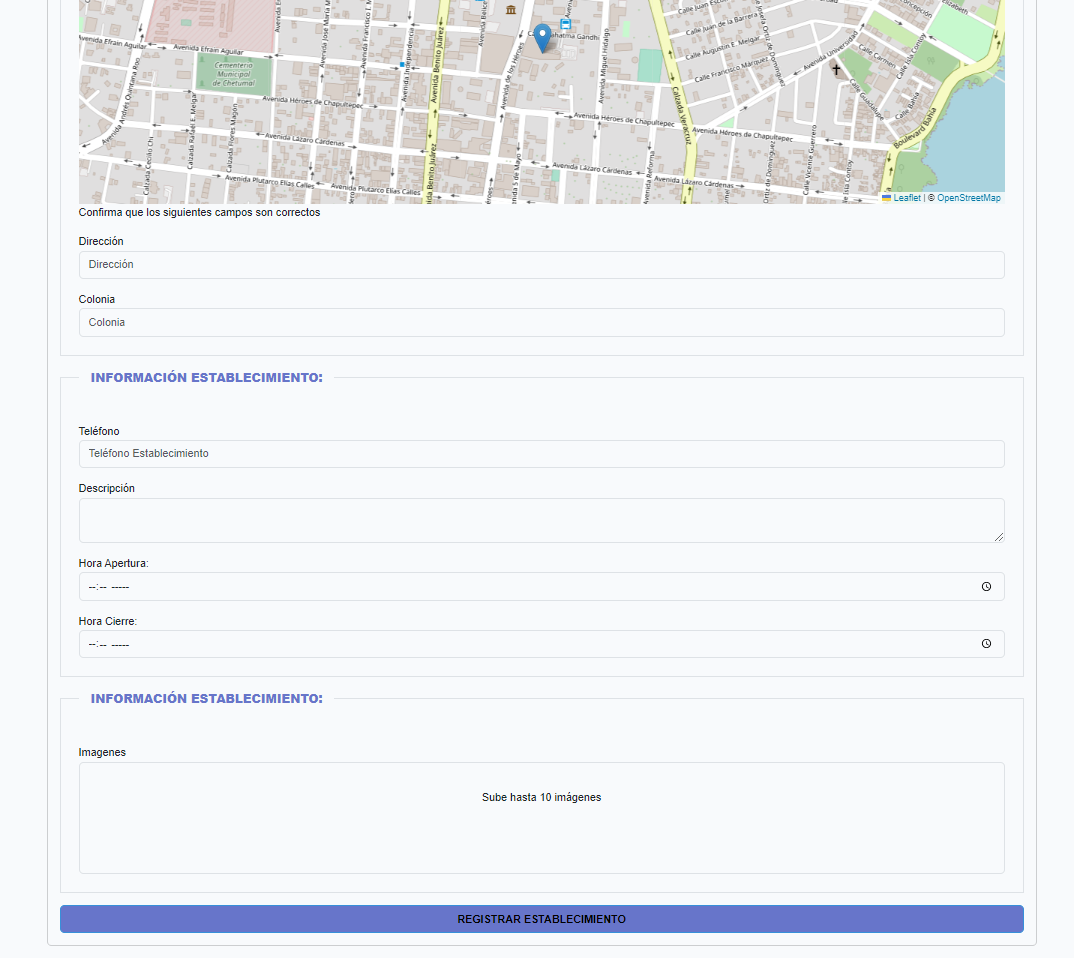
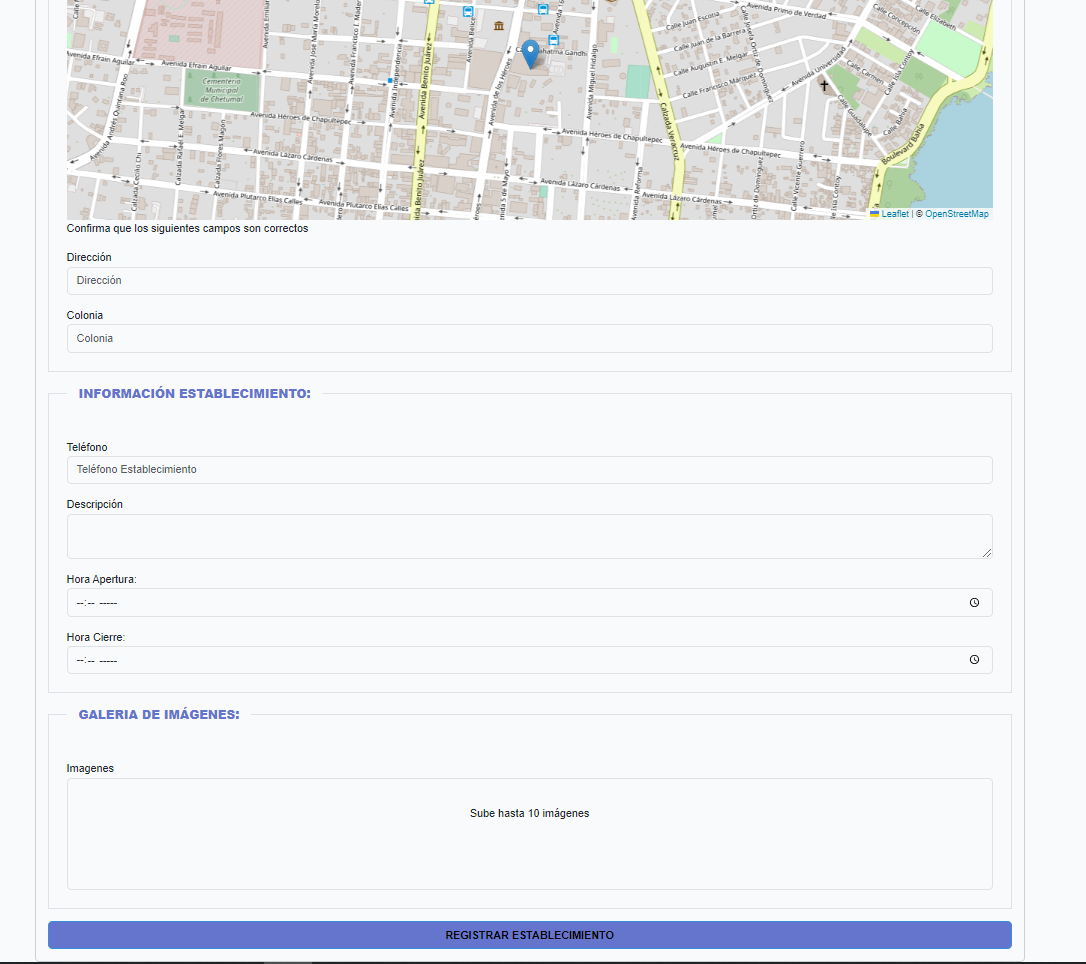
se agrega la edicion y actualizacion de establecimientos

diff --git a/resources/js/dropzone.js b/resources/js/dropzone.js
@@ -18,6 +18,37 @@ document.addEventListener('DOMContentLoaded', () => {
             headers: {
                 'X-CSRF-TOKEN': document.querySelector('meta[name="csrf-token"]').content
             },
+            init: function () {
+                //se llama al inicio de la carga de la página para verificar si existe imagenes para el elemento dropzone (usado en forms vies y edit)
+                const galeria = document.querySelectorAll('.galeria'); //inputs hidden con los nombres de las imagenes obtenidos desde el controller
+                //console.log(galeria);
+
+                //obtenenmos las imagenes
+                if(galeria.length > 0){
+                    galeria.forEach(imagen =>{
+                        //console.log(imagen.value);
+                        const imagenPublicada = {};
+                        imagenPublicada.size = 1; //si no se guarda el tamaño de la imagen se tiene que poner un size por defecto.
+                        imagenPublicada.name = imagen.value;
+                        //se agrega el nombre del "servidor" para que dropzone se comunique internamente
+                        imagenPublicada.nombreServidor = imagen.value;
+
+                        //agregamos la imagen a dropzone
+                        this.options.addedfile.call(this, imagenPublicada);
+                        this.options.thumbnail.call(this, imagenPublicada, `/storage/${imagenPublicada.name}`);
+                        //si el thumbnail se ve con mucho zoom se tiene que actualizar el scss resources/sass/establecimientos.scss con las clases 
+                        // dropzone .dz-preview .dz-image img {
+                        //    display: block;
+                        //    object-fit: scale-down;
+                        //    width: 200px;
+                        // }
+
+                        //mostramos los iconos de que las imagenes se subieron correctamente, para evitar se vea la barra de carga en el thumbnail
+                        imagenPublicada.previewElement.classList.add('dz-success');
+                        imagenPublicada.previewElement.classList.add('dz-complete');
+                    })
+                }
+            },
             success: function (file, respuesta) {
                 //console.log(file);
                 console.log(respuesta);
@@ -25,16 +56,16 @@ document.addEventListener('DOMContentLoaded', () => {
             },
             sending: function (file, xhr, formData) {
                 formData.append('uuid', document.querySelector('#uuid').value)
-               // console.log('enviando');
+                // console.log('enviando');
             },
-            removedfile: function(file, respuesta){
+            removedfile: function (file, respuesta) {
                 console.log(file);
 
                 const params = {
                     imagen: file.nombreServidor
                 }
                 axios.post('/imagenes/destroy', params)
-                    .then( respuesta => {
+                    .then(respuesta => {
                         console.log(respuesta)
 
                         //Eliminar del DOM

diff --git a/resources/js/components/MapaUbicacion.vue b/resources/js/components/MapaUbicacion.vue
@@ -3,7 +3,7 @@
         <l-map ref="mapa" v-model:zoom="zoom" :center="center" :options="mapOptions">
             <l-tile-layer :url="url" :attribution="attribution" />
 
-            <l-marker :lat-lng="{ lat, lng }">
+            <l-marker :lat-lng= "{ lat, lng }">
                 <l-tooltip>
                     <div>{{ establecimiento.nombre }}</div>
                 </l-tooltip>
@@ -43,6 +43,7 @@ export default {
     },
     created() {
         setTimeout(() => {
+            console.log(store.getters.obtenerEstablecimiento.lat);
             this.lat = store.getters.obtenerEstablecimiento.lat;
             this.lng = store.getters.obtenerEstablecimiento.lng;
             this.center = latLng(this.lat, this.lng);

diff --git a/resources/sass/establecimientos.scss b/resources/sass/establecimientos.scss
@@ -65,3 +65,13 @@ legend {
     color: $indigo;
 }
 
+.bg-primary{
+    background-color: $indigo!important;
+}
+
+.dropzone .dz-preview .dz-image img {
+    display: block;
+    object-fit: scale-down;
+    width: 200px;
+}
+

diff --git a/resources/js/components/PaginaInicio.vue b/resources/js/components/PaginaInicio.vue
@@ -18,10 +18,7 @@
 
 <script>
 
-
 export default {
-
-  
     
 }
 

diff --git a/resources/views/establecimientos/edit.blade.php b/resources/views/establecimientos/edit.blade.php
@@ -15,19 +15,20 @@
 @section('content')
     <div class="container">
         <h1 class="text-center mt-4">
-            Registrar Establecimiento
+            Editar Establecimiento
         </h1>
 
         <div class="row mt-5 justify-content-center">
-            <form action="{{ route('establecimiento.store') }}" method="POST" class="col-md-9 col-xs-12 card card-body" enctype="multipart/form-data">
+            <form action="{{ route('establecimiento.update', ['establecimiento'=>$establecimiento->id]) }}" method="POST" class="col-md-9 col-xs-12 card card-body" enctype="multipart/form-data">
                 @csrf
+                @method('PUT')
                 <fieldset class="border p-4">
                     <legend class="float-none w-auto px-3 text-primary">Nombre, Categoría e Imagen Principal</legend>
 
                     <div class="form-group">
                         <label for="nombre">Nombre Establecimiento</label>
                         <input type="text" id="nombre" class="form-control @error('nombre') is-invalid @enderror"
-                            placeholder="Nombre Establecimiento" name="nombre" value="{{ old('nombre') }}">
+                            placeholder="Nombre Establecimiento" name="nombre" value="{{ $establecimiento->nombre }}">
 
                         @error('nombre')
                             <div class="invalid-feedback">
@@ -43,7 +44,7 @@
                             <option value="" selected disabled>-- Seleccione --</option>
                             @foreach ($categorias as $categoria)
                                 <option value="{{ $categoria->id }}"
-                                    {{ old('categoria->id') == $categoria->id ? 'selected' : '' }}>
+                                    {{ $establecimiento->categoria_id == $categoria->id ? 'selected' : '' }}>
                                     {{ $categoria->nombre }}
                                 </option>
                             @endforeach
@@ -68,6 +69,8 @@
                                 {{ $message }}
                             </div>
                         @enderror
+
+                        <img src="/storage/{{ $establecimiento->imagen_principal }}" style="width: 200px; margin-top: 20px" alt="Imagen Principal">
                     </div>
 
                 </fieldset>
@@ -95,7 +98,7 @@
                     <div class="form-group mt-3">
                         <label for="direccion">Dirección</label>
                         <input type="text" id="direccion" class="form-control @error('direccion') is-invalid @enderror"
-                            placeholder="Dirección" name="direccion" value="{{ old('direccion') }}">
+                            placeholder="Dirección" name="direccion" value="{{ $establecimiento->direccion }}">
 
                         @error('direccion')
                             <div class="invalid-feedback">
@@ -107,7 +110,7 @@
                     <div class="form-group mt-3">
                         <label for="colonia">Colonia</label>
                         <input type="text" id="colonia" class="form-control @error('colonia') is-invalid @enderror"
-                            placeholder="Colonia" name="colonia" value="{{ old('colonia') }}">
+                            placeholder="Colonia" name="colonia" value="{{ $establecimiento->colonia }}">
 
                         @error('colonia')
                             <div class="invalid-feedback">
@@ -116,8 +119,8 @@
                         @enderror
                     </div>
 
-                    <input type="hidden" id="lat" name="lat" value="{{ old('lat') }}">
-                    <input type="hidden" id="lng" name="lng" value="{{ old('lng') }}">
+                    <input type="hidden" id="lat" name="lat" value="{{ $establecimiento->lat }}">
+                    <input type="hidden" id="lng" name="lng" value="{{ $establecimiento->lng }}">
 
                 </fieldset>
 
@@ -128,7 +131,7 @@
                     <div class="form-group mt-3">
                         <label for="telefono">Teléfono</label>
                         <input type="tel" class="form-control @error('telefono') is-invalid @enderror" id="telefono"
-                            placeholder="Teléfono Establecimiento" name="telefono" value="{{ old('telefono') }}">
+                            placeholder="Teléfono Establecimiento" name="telefono" value="{{ $establecimiento->telefono }}">
 
                         @error('telefono')
                             <div class="invalid-feedback">
@@ -139,7 +142,7 @@
 
                     <div class="form-group mt-3">
                         <label for="descripcion">Descripción</label>
-                        <textarea name="descripcion" id="descripcion" class="form-control @error('descripcion') is-invalid @enderror">{{ old('descripcion') }}</textarea>
+                        <textarea name="descripcion" id="descripcion" class="form-control @error('descripcion') is-invalid @enderror">{{ $establecimiento->descripcion }}</textarea>
 
                         @error('descripcion')
                             <div class="invalid-feedback">
@@ -152,7 +155,7 @@
                     <div class="form-group mt-3">
                         <label for="apertura">Hora Apertura:</label>
                         <input type="time" class="form-control @error('apertura') is-invalid @enderror" id="apertura"
-                            name="apertura" value="{{ old('apertura') }}">
+                            name="apertura" value="{{ $establecimiento->apertura }}">
 
                         @error('apertura')
                             <div class="invalid-feedback">
@@ -164,7 +167,7 @@
                     <div class="form-group mt-3">
                         <label for="cierre">Hora Cierre:</label>
                         <input type="time" class="form-control @error('cierre') is-invalid @enderror" id="cierre"
-                            name="cierre" value="{{ old('cierre') }}">
+                            name="cierre" value="{{ $establecimiento->cierre }}">
 
                         @error('cierre')
                             <div class="invalid-feedback">
@@ -181,17 +184,22 @@
 
                     <div class="form-group mt-3">
                         <label for="imagenes">Imagenes</label>
-
                         <div id="dropzone" class="dropzone form-control"></div>
                     </div>
+
+                    @if (count($imagenes)>0)
+                        @foreach ( $imagenes as $imagen )
+                            <input class="galeria" type="hidden" value="{{ $imagen->ruta_imagen }}">
+                        @endforeach
+                    @endif
 
                 </fieldset>
 
 
 
-                <input type="hidden" id="uuid" name="uuid" value="{{ Str::uuid()->toString() }}">
+                <input type="hidden" id="uuid" name="uuid" value="{{ $establecimiento->uuid }}">
 
-                <input type="submit" class="btn btn-primary mt-3 d-block" value="Registrar Establecimiento">
+                <input type="submit" class="btn btn-primary mt-3 d-block" value="Actualizar Establecimiento">
 
             </form>
         </div>

diff --git a/app/Http/Controllers/EstablecimientoController.php b/app/Http/Controllers/EstablecimientoController.php
@@ -5,6 +5,7 @@ namespace App\Http\Controllers;
 use App\Models\Categoria;
 use Illuminate\Http\Request;
 use App\Models\Establecimiento;
+use App\Models\Imagen;
 use Intervention\Image\Facades\Image;
 
 class EstablecimientoController extends Controller
@@ -119,7 +120,18 @@ class EstablecimientoController extends Controller
     public function edit(Establecimiento $establecimiento)
     {
         //
-        return "desde edit";
+        $categorias = Categoria::all();
+        //obtener establecimiento
+        $establecimiento = auth()->user()->establecimiento;
+        //sobreescribimos la hora de apertura y cierre para devolver solo la hora y los minutos
+        $establecimiento->apertura = date('H:i', strtotime($establecimiento->apertura));
+        $establecimiento->cierre = date('H:i', strtotime($establecimiento->cierre));
+
+        //obtiene las imagenes del establecimiento para mostrarlo en dropzone
+        $imagenes = Imagen::where('id_establecimiento', $establecimiento->uuid)->get();
+        //dd($imagenes);
+
+        return view('establecimientos.edit', compact('categorias','establecimiento','imagenes'));
     }
 
     /**

diff --git a/app/Http/Controllers/ImagenController.php b/app/Http/Controllers/ImagenController.php
@@ -38,19 +38,23 @@ class ImagenController extends Controller
     public function destroy(Request $request)
     {
 
+        //se obtiene la ruta y el uuid de la imagen 
         $imagen = $request->get('imagen');
 
+        //elimina la imagen del servidor y de la base de datos
         if (File::exists('storage/' . $imagen)) {
+            //elimina la imagen del servidor
             File::delete('storage/' . $imagen);
+
+            //elimina la imagen de la base de datos
+            Imagen::where('ruta_imagen', $imagen )->delete();
+
+            $respuesta = [
+                'mensaje' => 'Imagen Eliminada',
+                'imagen' => $imagen
+            ];
+
         }
-
-        $respuesta = [
-            'mensaje' => 'Imagen Eliminada',
-            'imagen' => $imagen
-        ];
-
-        $imagenEliminar = Imagen::where('ruta_imagen', '=', $imagen)->firstOrFail();
-        Imagen::destroy($imagenEliminar->id);
 
         //enviamos la respuesta al front end. Se recibe en la función removedfile del archivo resources/js/dropzone.js
         return response()->json($respuesta);

diff --git a/routes/web.php b/routes/web.php
@@ -22,9 +22,10 @@ Route::get('/', InicioController::class)->name('inicio');
 Auth::routes(['verify' => true]);
 
 Route::group(['middleware' => ['auth','verified']], function () {
-    Route::get('/establecimiento/create', [EstablecimientoController::class, 'create'])->name('establecimiento.create');
+    Route::get('/establecimiento/create', [EstablecimientoController::class, 'create'])->name('establecimiento.create')->middleware('revisar');
     Route::post('/establecimiento', [EstablecimientoController::class, 'store'])->name('establecimiento.store');
     Route::get('/establecimiento/edit', [EstablecimientoController::class, 'edit'])->name('establecimiento.edit');
+    Route::put('/establecimiento/{establecimiento}', [EstablecimientoController::class, 'update'])->name('establecimiento.update');
 
     //rutas para el archivo de frontend dropzone.js
     Route::post('/imagenes/store', [ImagenController::class, 'store'])->name('imagenes.store');

diff --git a/app/Http/Middleware/RevisarEstablecimiento.php b/app/Http/Middleware/RevisarEstablecimiento.php
@@ -1,0 +1,24 @@
+<?php
+
+namespace App\Http\Middleware;
+
+use Closure;
+use Illuminate\Http\Request;
+
+class RevisarEstablecimiento
+{
+    /**
+     * Handle an incoming request.
+     *
+     * @param  \Illuminate\Http\Request  $request
+     * @param  \Closure(\Illuminate\Http\Request): (\Illuminate\Http\Response|\Illuminate\Http\RedirectResponse)  $next
+     * @return \Illuminate\Http\Response|\Illuminate\Http\RedirectResponse
+     */
+    public function handle(Request $request, Closure $next)
+    {
+        if (Auth()->user()->establecimiento){
+            return redirect('establecimiento/edit');
+        }
+        return $next($request);
+    }
+}

diff --git a/app/Http/Kernel.php b/app/Http/Kernel.php
@@ -63,5 +63,6 @@ class Kernel extends HttpKernel
         'signed' => \Illuminate\Routing\Middleware\ValidateSignature::class,
         'throttle' => \Illuminate\Routing\Middleware\ThrottleRequests::class,
         'verified' => \Illuminate\Auth\Middleware\EnsureEmailIsVerified::class,
+        'revisar' => \App\Http\Middleware\RevisarEstablecimiento::class,
     ];
 }
